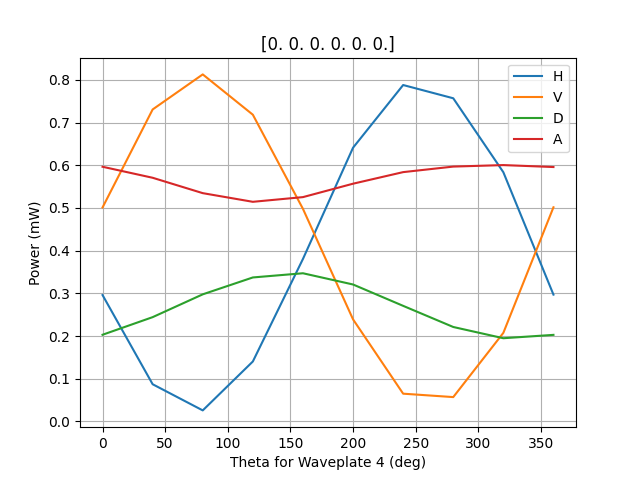
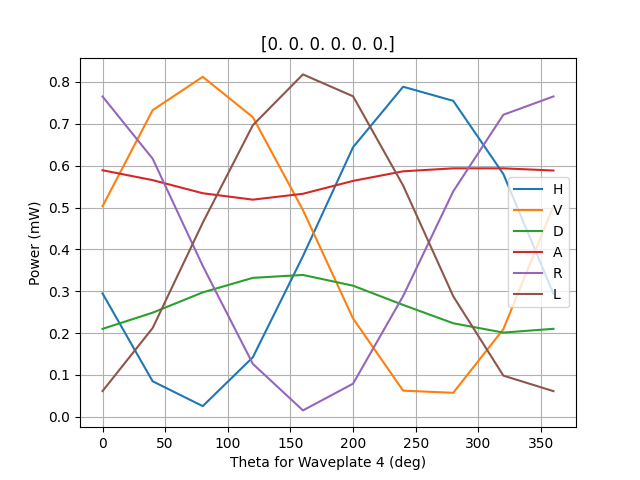
added R and L states to the plot

Changed region(s): [[0.0625, 0.125, 0.9062, 0.875], [0.0625, 0.8438, 0.125, 0.9062], [0.4688, 0.8438, 0.5, 0.875]]

diff --git a/plot_fringe.py b/plot_fringe.py
@@ -14,8 +14,7 @@ def plot(ret_angles=None, num_points=10, title=None, filepath=None, verbose=Fals
     if ret_angles is None:
         ret_angles = np.zeros(6)
 
-
-    bases = ['H', 'V', 'D', 'A']
+    bases = ['H', 'V', 'D', 'A', 'R', 'L']
 
     x = np.linspace(0, 360, num_points)
     x_radians = x * np.pi / 180
@@ -23,7 +22,7 @@ def plot(ret_angles=None, num_points=10, title=None, filepath=None, verbose=Fals
     readings = measure_for_plot(ret_angles, verbose=verbose)
 
     fig, ax = plt.subplots()
-    for i in range(4):
+    for i in range(6):
         ax.plot(x, readings[i], label=bases[i])
 
     if expected_count_rates is not None:
@@ -53,7 +52,7 @@ def plot2(ret_angles=None, num_points=10, title=None, filepath=None, verbose=Fal
     if ret_angles is None:
         ret_angles = np.zeros((2, 6))
 
-    bases = ['H', 'V', 'D', 'A']
+    bases = ['H', 'V', 'D', 'A', 'R', 'L']
     x = np.linspace(0, 360, num_points)
     x_radians = x * np.pi / 180
 
@@ -62,7 +61,7 @@ def plot2(ret_angles=None, num_points=10, title=None, filepath=None, verbose=Fal
 
     ax0 = plt.subplot(211)
 
-    for i in range(4):
+    for i in range(6):
         plt.plot(x, readings0[i], label=bases[i])
 
     if expected_count_rates is not None:
@@ -78,7 +77,7 @@ def plot2(ret_angles=None, num_points=10, title=None, filepath=None, verbose=Fal
 
     ax1 = plt.subplot(212, sharex=ax0, sharey=ax0)
 
-    for i in range(4):
+    for i in range(6):
         plt.plot(x, readings1[i], label=bases[i])
 
     if expected_count_rates is not None:

diff --git a/measurements.py b/measurements.py
@@ -79,11 +79,11 @@ def measure_for_plot(ret_angles, num_points=10, verbose=False):
             print(resp)
 
     # Start taking measurements
-    bases = ['h', 'v', 'd', 'a']
-    readings = np.zeros(shape=(4, num_points))
+    bases = ['h', 'v', 'd', 'a', 'r', 'l']
+    readings = np.zeros(shape=(6, num_points))
 
     x = np.linspace(0, 360, num_points)
-    for i in range(4):
+    for i in range(6):
         synth._send(bases[i])  # Set polarization synthesizer to H, V, D, A
 
         for j in range(num_points):
